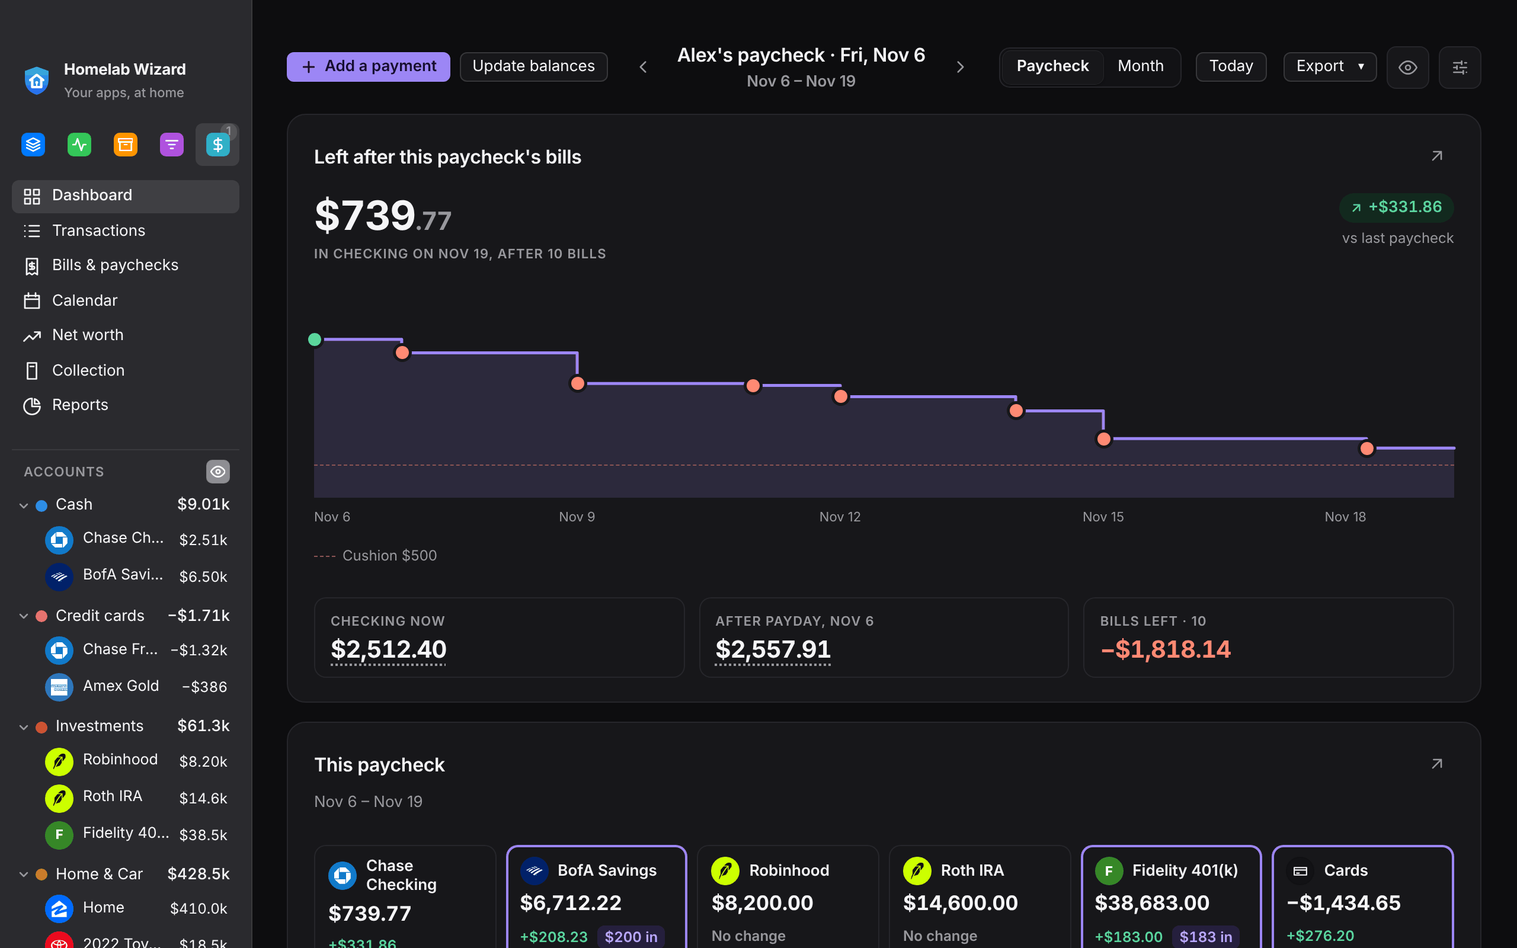
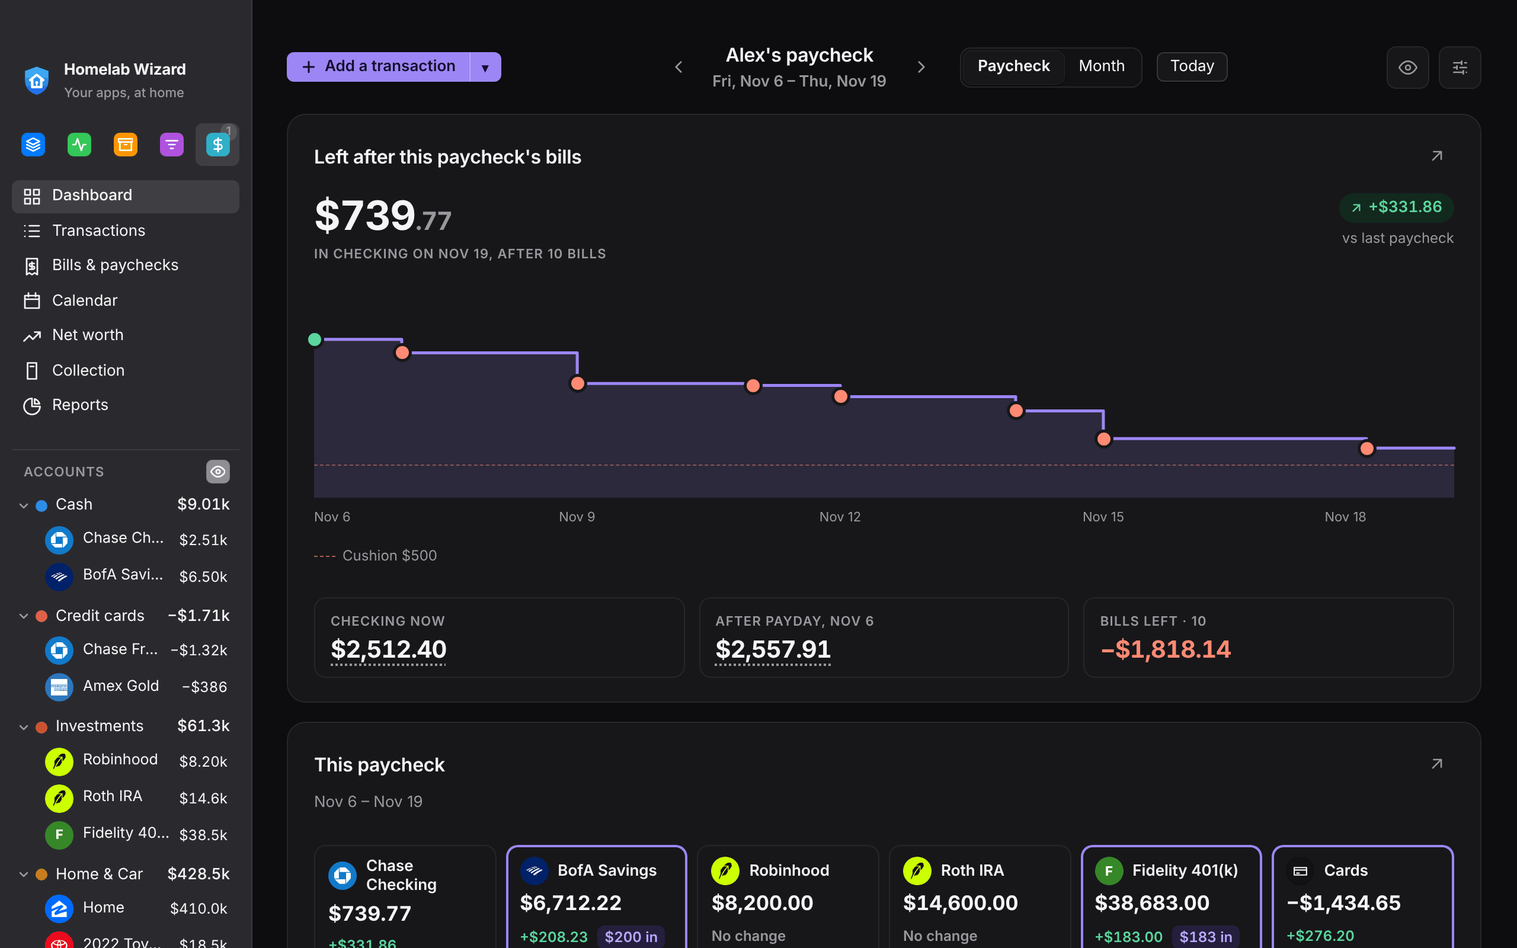
Finances' top bar as the picture: Add a transaction with its ▾ (the other adds, Update balances, Export), the period as whose paycheck over its days, Today only away from now
Claude-Session: https://claude.ai/code/session_01MiSTxseDPUYYgrtQvknXsP

diff --git a/web/dist/app.js b/web/dist/app.js
@@ -2361,13 +2361,13 @@
     return /* @__PURE__ */ u3("ul", { class: "alertlist" + (kind ? " " + kind : ""), children });
   }
   function Row({ dot, lead: lead2, title, sub, subTone, children, end, when: when3, whenTitle, whenPlain, onOpen, openLabel, pressed }) {
-    const Box = onOpen ? "span" : "div";
+    const Box2 = onOpen ? "span" : "div";
     const body = /* @__PURE__ */ u3(S, { children: [
       dot !== void 0 && /* @__PURE__ */ u3("span", { class: "dot " + dot }),
       lead2,
-      /* @__PURE__ */ u3(Box, { class: "grow", children: [
+      /* @__PURE__ */ u3(Box2, { class: "grow", children: [
         title !== void 0 && /* @__PURE__ */ u3("strong", { children: title }),
-        !!sub && /* @__PURE__ */ u3(Box, { class: (subTone || "muted") + (onOpen ? " line" : ""), children: sub }),
+        !!sub && /* @__PURE__ */ u3(Box2, { class: (subTone || "muted") + (onOpen ? " line" : ""), children: sub }),
         children
       ] }),
       end,
@@ -17654,9 +17654,12 @@ ${pays}
     }
   };
   var pickedOf = (v3, past, sel2) => Math.max(-past.length, Math.min(sel2, v3.periods.length - 1));
-  function PeriodBar({ by, setBy, title, dates, step: step2, canBack, canOn, today: today2, atToday }) {
+  function Box({ bare, children }) {
+    return bare ? /* @__PURE__ */ u3("div", { class: "fx-periodbar", id: "finPeriod", children }) : /* @__PURE__ */ u3(Card, { kind: "fx-periodbar", id: "finPeriod", children });
+  }
+  function PeriodBar({ by, setBy, title, dates, step: step2, canBack, canOn, today: today2, atToday, bare }) {
     const unit2 = by === "month" ? "month" : "pay period";
-    return /* @__PURE__ */ u3(Card, { kind: "fx-periodbar", id: "finPeriod", children: [
+    return /* @__PURE__ */ u3(Box, { bare, children: [
       /* @__PURE__ */ u3(Segmented, { label: "Show the Dashboard by", value: by, pick: (b2) => setBy(b2), options: [["pay", "Paycheck"], ["month", "Month"]] }),
       /* @__PURE__ */ u3("div", { class: "fx-periodstep", children: [
         /* @__PURE__ */ u3(IconButton, { icon: "prev", label: `The ${unit2} before`, disabled: !canBack, onClick: () => step2(-1) }),
@@ -18203,10 +18206,11 @@ ${pays}
     ] }) });
   }
   var startedThree = (v3) => !!v3.plan.people?.length && !!v3.plan.payments?.length;
+  var paidWhom = (ids, L2) => ids.map((id2) => L2.person[id2]?.name || id2).join(" and ");
   function TopPeriod({ bar }) {
     h2(() => {
       const slot = document.getElementById("finTopPeriod");
-      if (slot) R(bar ? /* @__PURE__ */ u3(PeriodBar, { ...bar }) : null, slot);
+      if (slot) R(bar ? /* @__PURE__ */ u3(PeriodBar, { ...bar, bare: true }) : null, slot);
     });
     h2(() => () => {
       const slot = document.getElementById("finTopPeriod");
@@ -18240,8 +18244,8 @@ ${pays}
     } : p3 || was ? {
       by,
       setBy,
-      title: p3 ? periodTitle(p3, L2) : paydayTitle(was.pay, L2),
-      dates: p3 ? `${dayShort(p3.start)} – ${dayShort(p3.last)}${p3.now ? ", from today" : ""}` : `${dayShort(was.start)} – ${dayShort(was.last)}, what happened`,
+      title: phone2 ? p3 ? periodTitle(p3, L2) : paydayTitle(was.pay, L2) : p3?.now ? "Until the next paycheck" : `${paidWhom((p3 ? p3.pay : was.pay).people, L2)}'s paycheck`,
+      dates: phone2 ? p3 ? `${dayShort(p3.start)} – ${dayShort(p3.last)}${p3.now ? ", from today" : ""}` : `${dayShort(was.start)} – ${dayShort(was.last)}, what happened` : `${dayLong(p3 ? p3.start : was.start)} – ${dayLong(p3 ? p3.last : was.last)}${p3?.now ? ", from today" : was ? ", what happened" : ""}`,
       step: (d3) => pick(picked + d3),
       canBack: picked > -past.length,
       canOn: picked < v3.periods.length - 1,
@@ -18307,9 +18311,11 @@ ${pays}
   var groupOf = (tab3) => groups3.find(([, , pages]) => pages.includes(pageFor(tab3))) || groups3[0];
   var leftOn = {};
   var pageOf = (group2) => leftOn[group2] || groups3.find(([k3]) => k3 === group2)[2][0];
-  var adds = { overview: ["payment", "Add a payment"], calendar: ["payment", "Add a payment"], transactions: ["transaction", "Add a transaction"], reports: ["transaction", "Add a transaction"], recurring: ["payment", "Add a payment"], pay: ["person", "Add a paycheck"], worth: ["account", "Add an account"], collection: ["card", "Add a card"] };
-  function ExportMenu({ v: v3, exportFile: exportFile2, printMonth }) {
+  var addAll = [["transaction", "Add a transaction"], ["payment", "Add a payment"], ["person", "Add a paycheck"], ["account", "Add an account"], ["card", "Add a card"]];
+  var adds = { overview: ["transaction", "Add a transaction"], calendar: ["payment", "Add a payment"], transactions: ["transaction", "Add a transaction"], reports: ["transaction", "Add a transaction"], recurring: ["payment", "Add a payment"], pay: ["person", "Add a paycheck"], worth: ["account", "Add an account"], collection: ["card", "Add a card"] };
+  function useExport(v3, exportFile2, printMonth) {
     const [said2, setSaid] = d2("");
+    if (!v3) return { said: said2, items: [] };
     const run2 = (go3) => async () => {
       setSaid("Saving…");
       try {
@@ -18326,22 +18332,17 @@ ${pays}
     };
     const label = (m3) => (/* @__PURE__ */ new Date(m3 + "-01T12:00:00")).toLocaleDateString("en-US", { month: "long" });
     const print = (k3) => run2(() => printMonth(monthName2(month3(k3)), monthPage(v3, month3(k3), "Finances")));
+    return { said: said2, items: [
+      { label: "The plan, as JSON", onClick: run2(() => exportFile2(planName(v3.today), planJson(v3.plan))) },
+      { label: "The year ahead, as a spreadsheet (CSV)", onClick: run2(() => exportFile2(aheadName(v3.today), aheadCsv(v3))) },
+      { label: `${label(month3(0))}, to print`, onClick: print(0) },
+      { label: `${label(month3(1))}, to print`, onClick: print(1) }
+    ] };
+  }
+  function ExportMenu({ exp }) {
     return /* @__PURE__ */ u3("span", { class: "fx-export", children: [
-      said2 && /* @__PURE__ */ u3("span", { class: "muted fx-exportsaid", role: "status", children: said2 }),
-      /* @__PURE__ */ u3(
-        MenuButton,
-        {
-          label: "Export",
-          menuLabel: "Export",
-          title: "Your plan and what's ahead, to keep, open in a spreadsheet, or print",
-          items: [
-            { label: "The plan, as JSON", onClick: run2(() => exportFile2(planName(v3.today), planJson(v3.plan))) },
-            { label: "The year ahead, as a spreadsheet (CSV)", onClick: run2(() => exportFile2(aheadName(v3.today), aheadCsv(v3))) },
-            { label: `${label(month3(0))}, to print`, onClick: print(0) },
-            { label: `${label(month3(1))}, to print`, onClick: print(1) }
-          ]
-        }
-      )
+      exp.said && /* @__PURE__ */ u3("span", { class: "muted fx-exportsaid", role: "status", children: exp.said }),
+      /* @__PURE__ */ u3(MenuButton, { label: "Export", menuLabel: "Export", title: "Your plan and what's ahead, to keep, open in a spreadsheet, or print", items: exp.items })
     ] });
   }
   function FinancesScreen({ v: v3, ledger, error, retry, tab: tab3, setTab, sel: sel2, pick, setSince: setSince2, saveSettings, keep: keep3, edit: open5, exportFile: exportFile2, printMonth, readReceipt, readCardPicture, readCardPrices, updatePrices, saveLedger: saveLedger2, running: running5, calendar, fromWallos, phone: phone2, toggleHidden, group: group2, setGroup, investments }) {
@@ -18351,6 +18352,7 @@ ${pays}
     setOwnLogos(v3?.plan.logos);
     setCategories(v3?.categories);
     const [what2, label] = adds[pageFor(tab3)] || adds.overview;
+    const exp = useExport(v3, exportFile2, printMonth);
     const [from2, setFrom] = d2("");
     const toTx = (f4) => {
       showTransactions(f4);
@@ -18382,7 +18384,7 @@ ${pays}
           /* @__PURE__ */ u3("p", { class: "lead" + (age >= 7 ? " warn" : ""), children: lead2 })
         ] }),
         /* @__PURE__ */ u3("div", { class: "fx-headtools", children: [
-          v3 && /* @__PURE__ */ u3(ExportMenu, { v: v3, exportFile: exportFile2, printMonth }),
+          v3 && /* @__PURE__ */ u3(ExportMenu, { exp }),
           ro && v3?.plan.hideAmounts && /* @__PURE__ */ u3("div", { class: "toolbar", children: /* @__PURE__ */ u3("span", { class: "pill", children: "Amounts hidden" }) }),
           !ro && /* @__PURE__ */ u3("div", { class: "toolbar", children: [
             eye,
@@ -18393,13 +18395,27 @@ ${pays}
       ] }) : /* @__PURE__ */ u3(S, { children: [
         /* @__PURE__ */ u3("h1", { class: "sr", children: "Finances" }),
         /* @__PURE__ */ u3("div", { class: "fx-topbar", children: [
-          /* @__PURE__ */ u3("div", { class: "toolbar", children: [
+          /* @__PURE__ */ u3("div", { class: "toolbar fx-addsplit", children: [
             addBtn,
-            updateBtn
+            /* @__PURE__ */ u3(
+              MenuButton,
+              {
+                cls: "btn fx-primary fx-addmore",
+                disabled: !v3,
+                menuLabel: "Add and more",
+                title: "Add something else, update balances, or export",
+                label: null,
+                items: [
+                  ...addAll.filter(([w3]) => w3 !== what2).map(([w3, l3]) => ({ label: l3, onClick: () => edit(w3) })),
+                  ...v3?.plan.accounts?.length ? [{ label: "Update balances", onClick: () => edit("balances") }] : [],
+                  ...exp.items.map((x3) => ({ ...x3, label: x3.label.startsWith("The ") ? `Export the${x3.label.slice(3)}` : `Print ${x3.label.replace(", to print", "")}` }))
+                ]
+              }
+            )
           ] }),
           /* @__PURE__ */ u3("div", { id: "finTopPeriod", class: "fx-topperiod" }),
           /* @__PURE__ */ u3("div", { class: "fx-topicons", children: [
-            v3 && /* @__PURE__ */ u3(ExportMenu, { v: v3, exportFile: exportFile2, printMonth }),
+            exp.said && /* @__PURE__ */ u3("span", { class: "muted fx-exportsaid", role: "status", children: exp.said }),
             eye,
             pageFor(tab3) === "overview" && /* @__PURE__ */ u3(
               "button",

diff --git a/web/src/finances/Finances.tsx b/web/src/finances/Finances.tsx
@@ -6,7 +6,7 @@ import { CardPage, CollectionPage } from './Collection';
 import { render } from 'preact';
 import { HideAmounts } from './ui/HideAmounts';
 import { useEffect, useState } from 'preact/hooks';
-import { MenuButton } from '../parts/MenuButton';
+import { MenuButton, type MenuItem } from '../parts/MenuButton';
 import { aheadCsv, aheadName, monthName, monthPage, planJson, planName } from './exportData';
 import { Segmented } from '../parts/Segmented';
 import { Empty } from '../parts/Empty';
@@ -88,15 +88,19 @@ const groupOf = (tab: string) => groups.find(([, , pages]) => pages.includes(pag
 /** The page each tab was left on, so it opens there again (Plan on Paychecks); its first until one is. */
 const leftOn: Record<string, string> = {};
 const pageOf = (group: string) => leftOn[group] || groups.find(([k]) => k === group)![2][0];
-const adds: Record<string, [What, string]> = { overview: ['payment', 'Add a payment'], calendar: ['payment', 'Add a payment'], transactions: ['transaction', 'Add a transaction'], reports: ['transaction', 'Add a transaction'], recurring: ['payment', 'Add a payment'], pay: ['person', 'Add a paycheck'], worth: ['account', 'Add an account'], collection: ['card', 'Add a card'] };
+/** Everything the ▾ beside the main action can add, in this order (the page's own main action left out). */
+const addAll: [What, string][] = [['transaction', 'Add a transaction'], ['payment', 'Add a payment'], ['person', 'Add a paycheck'], ['account', 'Add an account'], ['card', 'Add a card']];
+const adds: Record<string, [What, string]> = { overview: ['transaction', 'Add a transaction'], calendar: ['payment', 'Add a payment'], transactions: ['transaction', 'Add a transaction'], reports: ['transaction', 'Add a transaction'], recurring: ['payment', 'Add a payment'], pay: ['person', 'Add a paycheck'], worth: ['account', 'Add an account'], collection: ['card', 'Add a card'] };
 
 /**
  * Export (F18): the plan as JSON, what's ahead as CSV, and this month or the
  * next on paper. Each says where it went beside the menu; nothing changes,
  * so a phone allowed only to look has it too.
  */
-function ExportMenu({ v, exportFile, printMonth }: { v: finance.View; exportFile: FinancesProps['exportFile']; printMonth: FinancesProps['printMonth'] }) {
+/** The export choices and what the last one said ("Saved to …"), for the phone's Export menu and the computer's ▾. */
+function useExport(v: finance.View | null, exportFile: FinancesProps['exportFile'], printMonth: FinancesProps['printMonth']) {
   const [said, setSaid] = useState('');
+  if (!v) return { said, items: [] as MenuItem[] };
   const run = (go: () => Promise<string>) => async () => {
     setSaid('Saving…');
     try { setSaid(await go()); } catch (e) { setSaid(`Not saved: ${(e as Error)?.message || e}`); }
@@ -105,16 +109,19 @@ function ExportMenu({ v, exportFile, printMonth }: { v: finance.View; exportFile
   const month = (k: number) => { const d = new Date(v.today + 'T12:00:00'); d.setDate(1); d.setMonth(d.getMonth() + k); return isoDay(d).slice(0, 7); };
   const label = (m: string) => new Date(m + '-01T12:00:00').toLocaleDateString('en-US', { month: 'long' });
   const print = (k: number) => run(() => printMonth(monthName(month(k)), monthPage(v, month(k), 'Finances')));
+  return { said, items: [
+    { label: 'The plan, as JSON', onClick: run(() => exportFile(planName(v.today), planJson(v.plan))) },
+    { label: 'The year ahead, as a spreadsheet (CSV)', onClick: run(() => exportFile(aheadName(v.today), aheadCsv(v))) },
+    { label: `${label(month(0))}, to print`, onClick: print(0) },
+    { label: `${label(month(1))}, to print`, onClick: print(1) },
+  ] as MenuItem[] };
+}
+
+function ExportMenu({ exp }: { exp: ReturnType<typeof useExport> }) {
   return (
     <span class="fx-export">
-      {said && <span class="muted fx-exportsaid" role="status">{said}</span>}
-      <MenuButton label="Export" menuLabel="Export" title="Your plan and what's ahead, to keep, open in a spreadsheet, or print"
-        items={[
-          { label: 'The plan, as JSON', onClick: run(() => exportFile(planName(v.today), planJson(v.plan))) },
-          { label: 'The year ahead, as a spreadsheet (CSV)', onClick: run(() => exportFile(aheadName(v.today), aheadCsv(v))) },
-          { label: `${label(month(0))}, to print`, onClick: print(0) },
-          { label: `${label(month(1))}, to print`, onClick: print(1) },
-        ]} />
+      {exp.said && <span class="muted fx-exportsaid" role="status">{exp.said}</span>}
+      <MenuButton label="Export" menuLabel="Export" title="Your plan and what's ahead, to keep, open in a spreadsheet, or print" items={exp.items} />
     </span>
   );
 }
@@ -128,6 +135,7 @@ function FinancesScreen({ v, ledger, error, retry, tab, setTab, sel, pick, setSi
   setCategories(v?.categories);
   // An account's own page is under Net worth: its button adds an account too.
   const [what, label] = adds[pageFor(tab)] || adds.overview;
+  const exp = useExport(v, exportFile, printMonth);
   // Where Transactions was opened from, filtered (a report's row, a Dashboard card), for its Back; a tab picked forgets it.
   const [from, setFrom] = useState('');
   const toTx = (f: Parameters<typeof showTransactions>[0]) => { showTransactions(f); setFrom(tab); setTab('transactions'); };
@@ -153,7 +161,7 @@ function FinancesScreen({ v, ledger, error, retry, tab, setTab, sel, pick, setSi
         {/* Export on its own, before the toolbar's capsule: it wraps by itself on a narrow screen, and the capsule keeps to what fits.
             The two share a box at the header's top, level by their middles. */}
         <div class="fx-headtools">
-          {v && <ExportMenu v={v} exportFile={exportFile} printMonth={printMonth} />}
+          {v && <ExportMenu exp={exp} />}
           {ro && v?.plan.hideAmounts && <div class="toolbar"><span class="pill">Amounts hidden</span></div>}
           {!ro && <div class="toolbar">{eye}{updateBtn}{addBtn}</div>}
         </div>
@@ -164,10 +172,17 @@ function FinancesScreen({ v, ledger, error, retry, tab, setTab, sel, pick, setSi
         : <>
           <h1 class="sr">Finances</h1>
           <div class="fx-topbar">
-            <div class="toolbar">{addBtn}{updateBtn}</div>
+            {/* The main action, and the ▾ with the rest (docs/images/redesign/computer-finances.png): the other things to add,
+                Update balances, and Export. */}
+            <div class="toolbar fx-addsplit">{addBtn}<MenuButton cls="btn fx-primary fx-addmore" disabled={!v} menuLabel="Add and more"
+              title="Add something else, update balances, or export"
+              label={null}
+              items={[...addAll.filter(([w]) => w !== what).map(([w, l]) => ({ label: l, onClick: () => edit(w) })),
+                ...(v?.plan.accounts?.length ? [{ label: 'Update balances', onClick: () => edit('balances') }] : []),
+                ...exp.items.map((x) => ({ ...x, label: x.label.startsWith('The ') ? `Export the${x.label.slice(3)}` : `Print ${x.label.replace(', to print', '')}` }))]} /></div>
             <div id="finTopPeriod" class="fx-topperiod" />
             <div class="fx-topicons">
-              {v && <ExportMenu v={v} exportFile={exportFile} printMonth={printMonth} />}
+              {exp.said && <span class="muted fx-exportsaid" role="status">{exp.said}</span>}
               {eye}
               {pageFor(tab) === 'overview' && <button type="button" class="iconbtn fx-arrangebtn" aria-label="Arrange the Dashboard" title="Arrange the Dashboard: move, resize or hide its cards"
                 onClick={() => dispatchEvent(new Event('homelab:arrange'))}>

diff --git a/web/src/finances/Overview.tsx b/web/src/finances/Overview.tsx
@@ -23,7 +23,7 @@ import { keepBy, PeriodBar, type PeriodBarProps, type PeriodBy, pickedOf, readBy
 import { PastWidget } from './widgets/Past';
 import { PlannedWidget } from './widgets/Planned';
 import { monthPeriods, pastPeriods } from './model';
-import { dayShort, isoDay, parseDay } from './money';
+import { dayLong, dayShort, isoDay, parseDay } from './money';
 import { dayText } from '../format';
 import { useEffect, useState } from 'preact/hooks';
 import { render } from 'preact';
@@ -104,6 +104,9 @@ function StartThree({ v, add }: { v: finance.View; add: NonNullable<OverviewProp
  */
 const startedThree = (v: finance.View) => !!v.plan.people?.length && !!v.plan.payments?.length;
 
+/** Whose paycheck: "Alex", "Alex and Jordan". */
+const paidWhom = (ids: string[], L: Lookup) => ids.map((id) => L.person[id]?.name || id).join(' and ');
+
 /**
  * The period, in the top bar on the computer (docs/Redesign.md, The top bar): drawn into Finances' #finTopPeriod, which
  * the screen draws before this, so the bar stays one row; emptied when the Dashboard isn't showing.
@@ -111,7 +114,7 @@ const startedThree = (v: finance.View) => !!v.plan.people?.length && !!v.plan.pa
 function TopPeriod({ bar }: { bar: PeriodBarProps | null }) {
   useEffect(() => {
     const slot = document.getElementById('finTopPeriod');
-    if (slot) render(bar ? <PeriodBar {...bar} /> : null, slot);
+    if (slot) render(bar ? <PeriodBar {...bar} bare /> : null, slot);
   });
   useEffect(() => () => { const slot = document.getElementById('finTopPeriod'); if (slot) render(null, slot); }, []);
   return null;
@@ -134,8 +137,10 @@ export function Overview({ v, L, sel, pick, add, edit, setSince, keep, ledger, o
       dates: `${dayShort(month.start)} – ${dayShort(month.last)}, ${month.when === 'past' ? 'what happened' : month.when === 'now' ? 'so far, then the plan' : 'the plan'}`,
       step: (d) => setMonthAt(Math.max(0, Math.min(months.length - 1, monthAt + d))), canBack: monthAt > 0, canOn: monthAt < months.length - 1,
       today: () => setMonthAt(thisMonth), atToday: monthAt === thisMonth }
-    : p || was ? { by, setBy, title: p ? periodTitle(p, L) : paydayTitle(was!.pay, L),
-      dates: p ? `${dayShort(p.start)} – ${dayShort(p.last)}${p.now ? ', from today' : ''}` : `${dayShort(was!.start)} – ${dayShort(was!.last)}, what happened`,
+    // On the computer the top bar's words (docs/images/redesign/computer-finances.png): whose paycheck over its days in full.
+    : p || was ? { by, setBy, title: phone ? (p ? periodTitle(p, L) : paydayTitle(was!.pay, L)) : p?.now ? 'Until the next paycheck' : `${paidWhom((p ? p.pay! : was!.pay).people, L)}'s paycheck`,
+      dates: phone ? (p ? `${dayShort(p.start)} – ${dayShort(p.last)}${p.now ? ', from today' : ''}` : `${dayShort(was!.start)} – ${dayShort(was!.last)}, what happened`)
+        : `${dayLong(p ? p.start : was!.start)} – ${dayLong(p ? p.last : was!.last)}${p?.now ? ', from today' : was ? ', what happened' : ''}`,
       step: (d) => pick(picked + d), canBack: picked > -past.length, canOn: picked < v.periods.length - 1, today: () => pick(0), atToday: picked === 0 }
     : null;
   // The cards the period picked puts in the paycheck card's place, and the days the spending ring reads.

diff --git a/web/dist/style.css b/web/dist/style.css
@@ -2231,10 +2231,23 @@ html .fx-month td { padding:0; vertical-align:top; height:92px; border-radius:va
 .fx-topperiod { flex:1 1 320px; display:flex; justify-content:center; min-width:0; }
 .fx-topperiod:empty { display:none; }
 .fx-topicons { display:flex; align-items:center; gap:8px; margin-left:auto; }
-#finRoot .fx-topperiod .card.fx-periodbar { background:none; border:0; box-shadow:none; padding:0; gap:12px; flex-wrap:nowrap; }
+#finRoot .fx-topperiod .fx-periodbar { display:flex; align-items:center; gap:12px; flex-wrap:nowrap; }
+#finRoot .fx-topperiod .fx-periodbar .fx-periodstep { display:flex; align-items:center; gap:8px; }
+#finRoot .fx-topperiod .fx-periodbar .fx-periodname { text-align:center; padding:0 6px; }
+#finRoot .fx-topperiod .fx-periodbar h2 { margin:0; font-size:16px; font-weight:600; letter-spacing:-.01em; }
+#finRoot .fx-topperiod .fx-periodbar .fx-dates { margin:2px 0 0; }
 #finRoot .fx-topperiod .fx-periodbar > .seg { order:2; margin:0 0 0 6px; }
 #finRoot .fx-topperiod .fx-periodbar > button.small { order:3; margin-left:0; }
 #finRoot .fx-topperiod .fx-periodbar :is(h2, .seg button) { white-space:nowrap; }
+/* Today only once the bar has stepped away from now (the picture has none). */
+#finRoot .fx-topperiod .fx-periodbar > button.small:disabled { display:none; }
+/* The main action and its ▾, joined as one button. */
+#finRoot .fx-topbar .toolbar.fx-addsplit { display:inline-flex; flex-wrap:nowrap; gap:0; }
+#finRoot .fx-addsplit .menuwrap { display:inline-flex; }
+#finRoot .fx-addsplit > .btn.fx-primary { border-top-right-radius:0; border-bottom-right-radius:0; }
+#finRoot .fx-addsplit .btn.fx-addmore { border-top-left-radius:0; border-bottom-left-radius:0; border-left:1px solid var(--fin-accent-ink); padding-left:10px; padding-right:10px; height:100%; }
+#finRoot .fx-addsplit .btn.fx-addmore .drop { margin:0; font-size:11px; }
+.fx-topicons .fx-exportsaid { font-size:12px; max-width:28ch; overflow:hidden; text-overflow:ellipsis; white-space:nowrap; }
 .fx-topicons .iconbtn { width:36px; height:36px; border-color:var(--line); background:var(--panel); }
 .fx-stale { margin:-4px 0 var(--fin-gap); }
 /* The line at the top (a stopped app, All well) is the homelab's: Finances leaves it to Status (docs/Redesign.md, Why). */

diff --git a/web/src/finances/widgets/Period.tsx b/web/src/finances/widgets/Period.tsx
@@ -34,12 +34,19 @@ export interface PeriodBarProps {
   canOn: boolean;
   today: () => void;
   atToday: boolean;
+  /** In the computer's top bar: part of the bar, not a card of its own. */
+  bare?: boolean;
 }
 
-export function PeriodBar({ by, setBy, title, dates, step, canBack, canOn, today, atToday }: PeriodBarProps) {
+/** The bar's box: a card on its own (the phone), or a plain part of the computer's top bar. */
+function Box({ bare, children }: { bare?: boolean; children: preact.ComponentChildren }) {
+  return bare ? <div class="fx-periodbar" id="finPeriod">{children}</div> : <Card kind="fx-periodbar" id="finPeriod">{children}</Card>;
+}
+
+export function PeriodBar({ by, setBy, title, dates, step, canBack, canOn, today, atToday, bare }: PeriodBarProps) {
   const unit = by === 'month' ? 'month' : 'pay period';
   return (
-    <Card kind="fx-periodbar" id="finPeriod">
+    <Box bare={bare}>
       <Segmented label="Show the Dashboard by" value={by} pick={(b) => setBy(b as PeriodBy)} options={[['pay', 'Paycheck'], ['month', 'Month']]} />
       {/* Back, the name and forward kept on one line, the name wrapping between them (usability task 15, item 4). */}
       <div class="fx-periodstep">
@@ -51,6 +58,6 @@ export function PeriodBar({ by, setBy, title, dates, step, canBack, canOn, today
         <IconButton icon="next" label={`The ${unit} after`} disabled={!canOn} onClick={() => step(1)} />
       </div>
       <button type="button" class="small" disabled={atToday} onClick={today}>Today</button>
-    </Card>
+    </Box>
   );
 }
